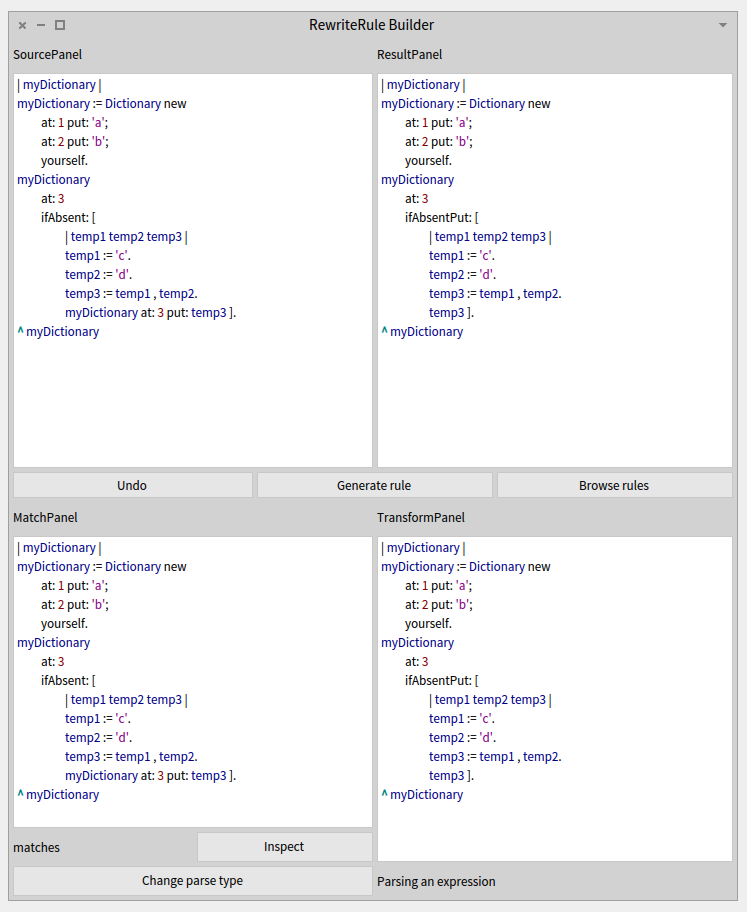
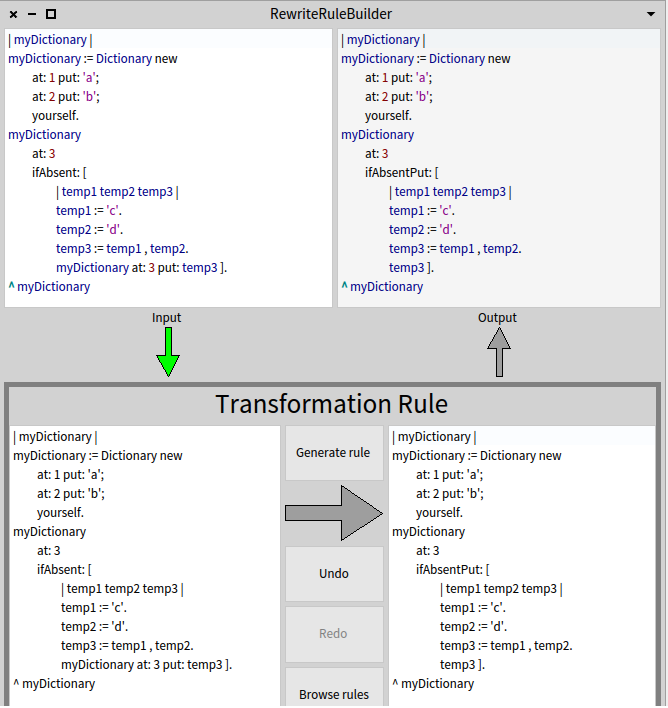
Rewritten: example 3, new figures

diff --git a/RewriteTool/RewriteTool.html b/RewriteTool/RewriteTool.html
@@ -214,122 +214,95 @@ into the bottom right pane. </p>
 <h5>I.5.B.b. Step 2:</h5><p>Now select <em>result</em> variable in LHS part of the rule use an <em>Abstract object</em> action on it. 
 Apply the same operation on <em>a</em> and <em>b</em> variables.
 After this steps the builder has to look like in the figure <a href="#example2-2">1.8 </a>.</p>
-<p><figure><pre><code class="smalltalk">    `variable1 := `variable2 &lt; `variable3
-	ifTrue: [ `variable2 ]
-	ifFalse: [ `variable3 ]</code></pre><figcaption></figcaption></figure></p>
 <p><a name="example2-2"></a><figure><img src="figures/example2-2.png"></img><figcaption>1.8. Step 2 of second example</figcaption></figure></p>
 <p><strong>Note:</strong> Metavariable indexes (number in the end of name) may be different if you did other changes before
 trying this example.</p>
 <p>Use <em>Generate rule</em> button to generate the class for this rule in order to use it in the Browser.</p>
 <h4>I.5.C. Third example</h4>
-<p><strong>below not yet reviewed</strong></p>
-<p><strong>...Probably we have to put explanation to The Rewrite Engine before examples, or just give some link...</strong></p>
-<p>Class <code>RBMinMaxRule</code> is a subclass of <code>RBTransformationRule</code>, which has other not less interesting examples of rewrite rules. 
-That is why we will examine <code>RBAtIfAbsentRule</code>. 
-This one works with collections and blocks, so its implementation may be more complicated than implementation of rules in two previous examples,
- however it is still easy to understand. </p>
-<p>Again, open <code>RBAtIfAbsentRule&gt;&gt;#initialize</code> method, and you will see few, similar to each other, rules. 
-Here is one of them:</p>
-<p><figure><pre><code class="smalltalk">    self rewriteRule
-	&quot;...&quot;
-	replace: '``@dictionary at: ``@key
-		  ifAbsent: [| `@temps |
-	          ``@.Statements.
-	          ``@dictionary at: ``@key 
-                  put: ``@object]'
-	with:    '``@dictionary at: ``@key
-	          ifAbsentPut: [| `@temps |
-	          ``@.Statements.
-	          ``@object]'</code></pre><figcaption></figcaption></figure></p>
-<p>At first look it may seem too complex, but after we generate it with builder, you will clearly know the responsibilities of each part of this rule.
-With such a rule we can do followning transformation:</p>
-<p><figure><pre><code class="smalltalk">    	&quot;before rule is applied&quot;
-
+<p>In this section  we will examine another transformation rule, that is used in Critics Browser, <code>RBAtIfAbsentRule</code>. 
+This rule works with collections and blocks, so its implementation may be more complicated than 
+implementation of rules in two previous examples. With this rule we can do following transformation:</p>
+<p><figure><pre><code class="smalltalk">	&quot;Source code&quot;
 	| myDictionary |
 	myDictionary := Dictionary new 
 		at: 1 put: 'a';
 		at: 2 put: 'b';
 		yourself.
 	myDictionary at: 3 ifAbsent: [
-	 | temp1 temp2 temp3 | 
-	 temp1 := 'c'.
-	 temp2 := 'd'.
-	 temp3 := temp1, temp2.
-	 myDictionary at: 3 put: temp3 ].
-	 ^ myDictionary
+		| temp1 temp2 temp3 | 
+		temp1 := 'c'.
+		temp2 := 'd'.
+		temp3 := temp1, temp2.
+		myDictionary at: 3 put: temp3 ].
+	^ myDictionary
 
-	&quot;after rule is applied&quot;
-
+	&quot;Resulting code&quot;
 	| myDictionary |
 	myDictionary := Dictionary new
 		at: 1 put: 'a';
 		at: 2 put: 'b';
 		yourself.
 	myDictionary at: 3 ifAbsentPut: [ 
-	 | temp1 temp2 temp3 |
-	 temp1 := 'c'.
-	 temp2 := 'd'.
-	 temp3 := temp1 , temp2.
-	 temp3 ].
-	^ myDictionary</code></pre><figcaption></figcaption></figure></p>
+		| temp1 temp2 temp3 |
+		temp1 := 'c'.
+		temp2 := 'd'.
+		temp3 := temp1 , temp2.
+		temp3 ].
+	^ myDictionary</code></pre><figcaption><a name="scr:possibleTransformation"></a>1.10. Example of possible transformation with RBAtIfAbsentRule</figcaption></figure></p>
 <p>This code contains all keywords that are present in rule such as: #at:ifAbsent:, and #at:ifAbsentPut:. 
-Current example is using this code, to implement the rule, that we selected earlier.</p>
+Current example is using this code, to implement the <code>RBAtIfAbsentRule</code> rule.</p>
 <h5>I.5.C.a. Step 1:</h5>
-<p>In order to open Builder with previous code inside of it, select first part of code (the one that is before rule is applied)
- in Nautilus workspace, go to <em>Source code refactoring</em> and select <em>RewriteRuleBuilder</em> option. 
-Or you can just open Builder through <em>World menu &gt;&gt; Tools &gt;&gt; Builder</em>,
- and than copy and paste first part of code in Source and Match panels, and second part - in Transform panel.
-Next copy second part of code, and paste it into Transform panel. 
+<p>To begin with copy and paste source code from listing <a href="#scr:possibleTransformation">1.10 </a> in top and bottom left panes. 
+After that copy resulting code from listing <a href="#scr:possibleTransformation">1.10 </a> in bottom right pane. 
 Now we are ready to implement the rule.</p>
-<p><a name="example3-1"></a><figure><img src="figures/example3-1.png" width="60%"></img><figcaption>1.9. Step 1 of ifAbsent: transformation example</figcaption></figure></p>
-<h5>I.5.C.b. Step 2:</h5><p>Required code is inside of the Builder, so it is time to begin creating the rule.
-As always, all following actions are done in Match panel, unless other panel is specified. 
-To start with, select any reference of <code>myDictionary</code>, except one that is a variable declaration,
- and apply <em>Abstract variable</em> option. 
-After that, do <em>As List</em> on newely created metavariable <code>`variable1</code>. 
-You will get <code>`@variabl1</code>, and finally, apply <em>Recurse into</em> to this one.
-The result is <code>``@variable1</code>, and all in all it is: </p>
-<p>Despite tha fact, that we don't need recursion and list symbol in this particular situation, 
-we still use them, because of next reasons:</p><ul><li> to get exactly the same rule as we have in <code>RBAtIfAbsentRule</code>;</li><li> to create a rule that can be used in general situation, not only in particular one;</li><li> to learn which actions Builder is able to perform.</li></ul>
-<p>Now we do exactly the same actions with a key, which is equal to 3.</p>
-<p><a name="example3-2"></a><figure><img src="figures/example3-2.png" width="60%"></img><figcaption>1.10. Step 2 of ifAbsent: transformation example</figcaption></figure></p>
-<h5>I.5.C.c. Step 3:</h5>
-<p>Apply <em>Abstract statement</em> action to next snippet:</p>
-<p><figure><pre><code class="smalltalk">    	&quot;...&quot;
+<p><a name="example3-1"></a><figure><img src="figures/example3-1.png"></img><figcaption>1.9. Step 1 of ifAbsent: transformation example</figcaption></figure></p>
+<h5>I.5.C.b. Step 2:</h5><p>To start with, select any reference of <em>myDictionary</em> in LHS part of the rule, 
+except one that is a variable declaration, and apply <em>Abstract object</em> option.</p>
+<p>Now select literal object <em>3</em> - one of the keys, that we use in source code 
+and bring up the contextual menu. 
+Note, that here we have one additional option - <em>Abstract literal</em>. 
+If you select this option, the tool creates an abstraction which matches any literal, 
+i.e. <em>5</em>, <em>'myString</em>', <em>#aSymbol</em> etc. 
+However, if you select the <em>Abstract object</em> option, the tool creates an abstraction 
+which matches any objects. It may be a literal, temporary variable or even message send. 
+Clearly, the <em>Abstract object</em> option creates more generic abstraction, 
+thus we suggest to select this one. </p>
+<p><a name="example3-2"></a><figure><img src="figures/example3-2.png"></img><figcaption>1.10. Step 2 of ifAbsent: transformation example</figcaption></figure></p>
+<h5>I.5.C.c. Step 3:</h5><p>Apply <em>Abstract statement</em> action to code provided in listing <a href="#scr:statementToAbstract">1.11 </a>.</p>
+<p><figure><pre><code class="smalltalk">	&quot;...&quot;
 
 	``@variable1 := Dictionary new
 	at: 1 put: 'a';
 	at: 2 put: 'b';
 	yourself.
 
-	&quot;...&quot;</code></pre><figcaption></figcaption></figure></p>
-<p>Basically, we want to match here pretty much everything, so let us do <em>As List</em> and <em>Recurse into</em> on <code>`.Statement1</code>, and as a result we have <code>``@.Statement1</code>.
-To finish with initialization part of this code, select declaration of temporary variable <code>| myDictionary |</code> and do on it <em>Abstract temporaries list</em>.
-Note, that <code>| myDictionary |</code> in Transform panel wasn't transformed to <code>| ``@temporaries |</code>, so we have to do it ourselves. 
-Select <code>| myDictionary |</code> in Transform panel, and apply <em>Abstract temporaries list</em>. 
-In opened window select <code>| ``@temporaries |</code> option.</p>
-<h5>I.5.C.d. Step 4:</h5>
-<p>After this steps, lets take a look at the argument of <code>#ifAbsent:</code> - a block. 
-With temporaries declaration <code>| temp1 temp2 temp3 |</code> we do exactly the same thing as in previous step. 
-Also we have to do same actions in Transform panel, but now in opened window choose <code>| ``@temporaries2 |</code> instead of <code>| ``@temporaries1 |</code>. </p>
-<p>Apply <em>Abstract statement<strong>s</strong></em> action to next snippet:</p>
-<p><figure><pre><code class="smalltalk">    	&quot;...&quot;
+	&quot;...&quot;</code></pre><figcaption><a name="scr:statementToAbstract"></a>1.11. Statement to abstract</figcaption></figure></p>
+<p>Basically, it will match pretty much any statement, and as a result we have <em>`@.Statement1</em>.
+To finish with initialization part of this code, 
+select declaration of temporary variable <em>| myDictionary |</em> and do on it <em>Abstract temporaries list</em>.
+Apply the same action on the temporaries list in RHS part of the rule. 
+In opened window select <em>| ``@temporaries1 |</em> option.</p>
+<h5>I.5.C.d. Step 4:</h5><p>After this steps, lets take a look at the argument of <em>#ifAbsent:</em> - a block. 
+With temporaries declaration <em>| temp1 temp2 temp3 |</em> we do exactly the same thing as in previous step. 
+Just apply the <em>Abstract temporaries list</em> option in both 
+LHS and RHS parts of the transformation rule. However, now in opened window choose 
+<em>| ``@temporaries2 |</em> instead of <em>| ``@temporaries1 |</em>. </p>
+<p>Apply the <em>Abstract statement<strong>s</strong></em> action to next snippet of code presented 
+in the listing <a href="#scr:statementsToAbstract">1.12 </a>. Repeat the same action in RHS part and choose <em>`@.Statements2</em>. </p>
+<p><figure><pre><code class="smalltalk">	&quot;...&quot;
 
 	temp1 := 'c'.
 	temp2 := 'd'.
 	temp3 := temp1 , temp2.
 
-	&quot;...&quot;</code></pre><figcaption></figcaption></figure></p>
-<p>Than do it with same snippet in Transform panel, and choose <code>`@.Statements2</code>. 
-Next, back to Match panel, on <code>`@.Statements2</code> node do <em>Recurse into</em>. 
-The rule is almost ready, there is one variable left that we have to change - <code>temp3</code>. 
-Select it and use <em>Abstract variable</em>, <em>As List</em> and <em>Recurse into</em> actions one after another, and that is how you get <code>``@variable3</code>. 
-Finally we have our rule, which does exactly what we wanted - transformation that is mentioned in the beginning of this example. </p>
-<p><a name="example3-4"></a><figure><img src="figures/example3-4.png" width="60%"></img><figcaption>1.11. Step 4 of ifAbsent: transformation example</figcaption></figure></p>
-<p>If you wish, now it is possible to <em>Generate</em> a class, that will hold this rule, so afterwars you can use it in Browser. </p>
-<p><strong>... Again, maybe explained Browser ...</strong></p>
-
+	&quot;...&quot;</code></pre><figcaption><a name="scr:statementsToAbstract"></a>1.12. Statements to abstract</figcaption></figure></p>
+<p>The rule is almost ready, there is one variable left that we have to change - <em>temp3</em>. 
+Select it and use <em>Abstract object</em>, and that is how you get <em>``@variable3</em>. 
+Finally we have our rule, which does exactly what we wanted - 
+transformation that is mentioned in the beginning of this example. </p>
+<p><a name="example3-3"></a><figure><img src="figures/example3-3.png"></img><figcaption>1.11. Step 4 of ifAbsent: transformation example</figcaption></figure></p>
 <h3>I.6. The Rewrite Tool in details</h3>
+<p><strong>not yet reviewed below</strong></p>
 <p>In this section we describe each and every part of The Rewrite Tool. It is grounded
 on many important ideas that are explained here. A good understanding of this
 ideas is crucial to increase users effectiveness, while working with the tool.</p>
